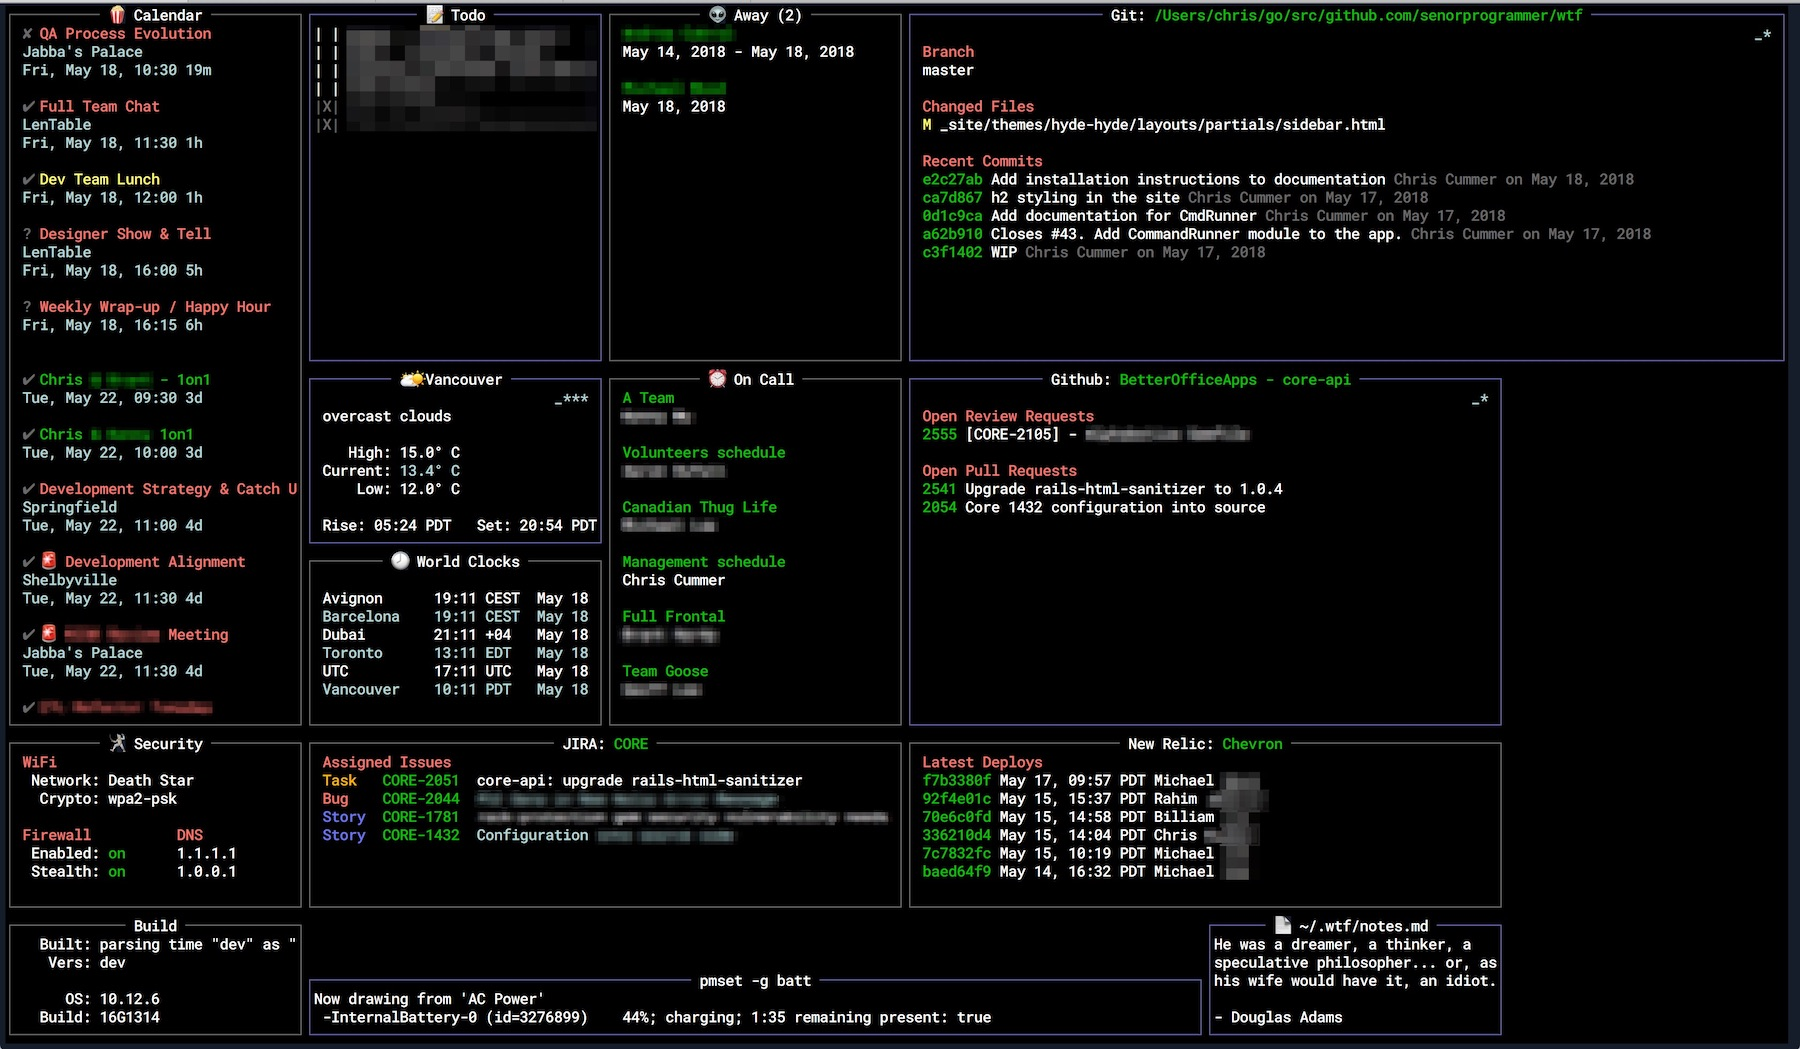
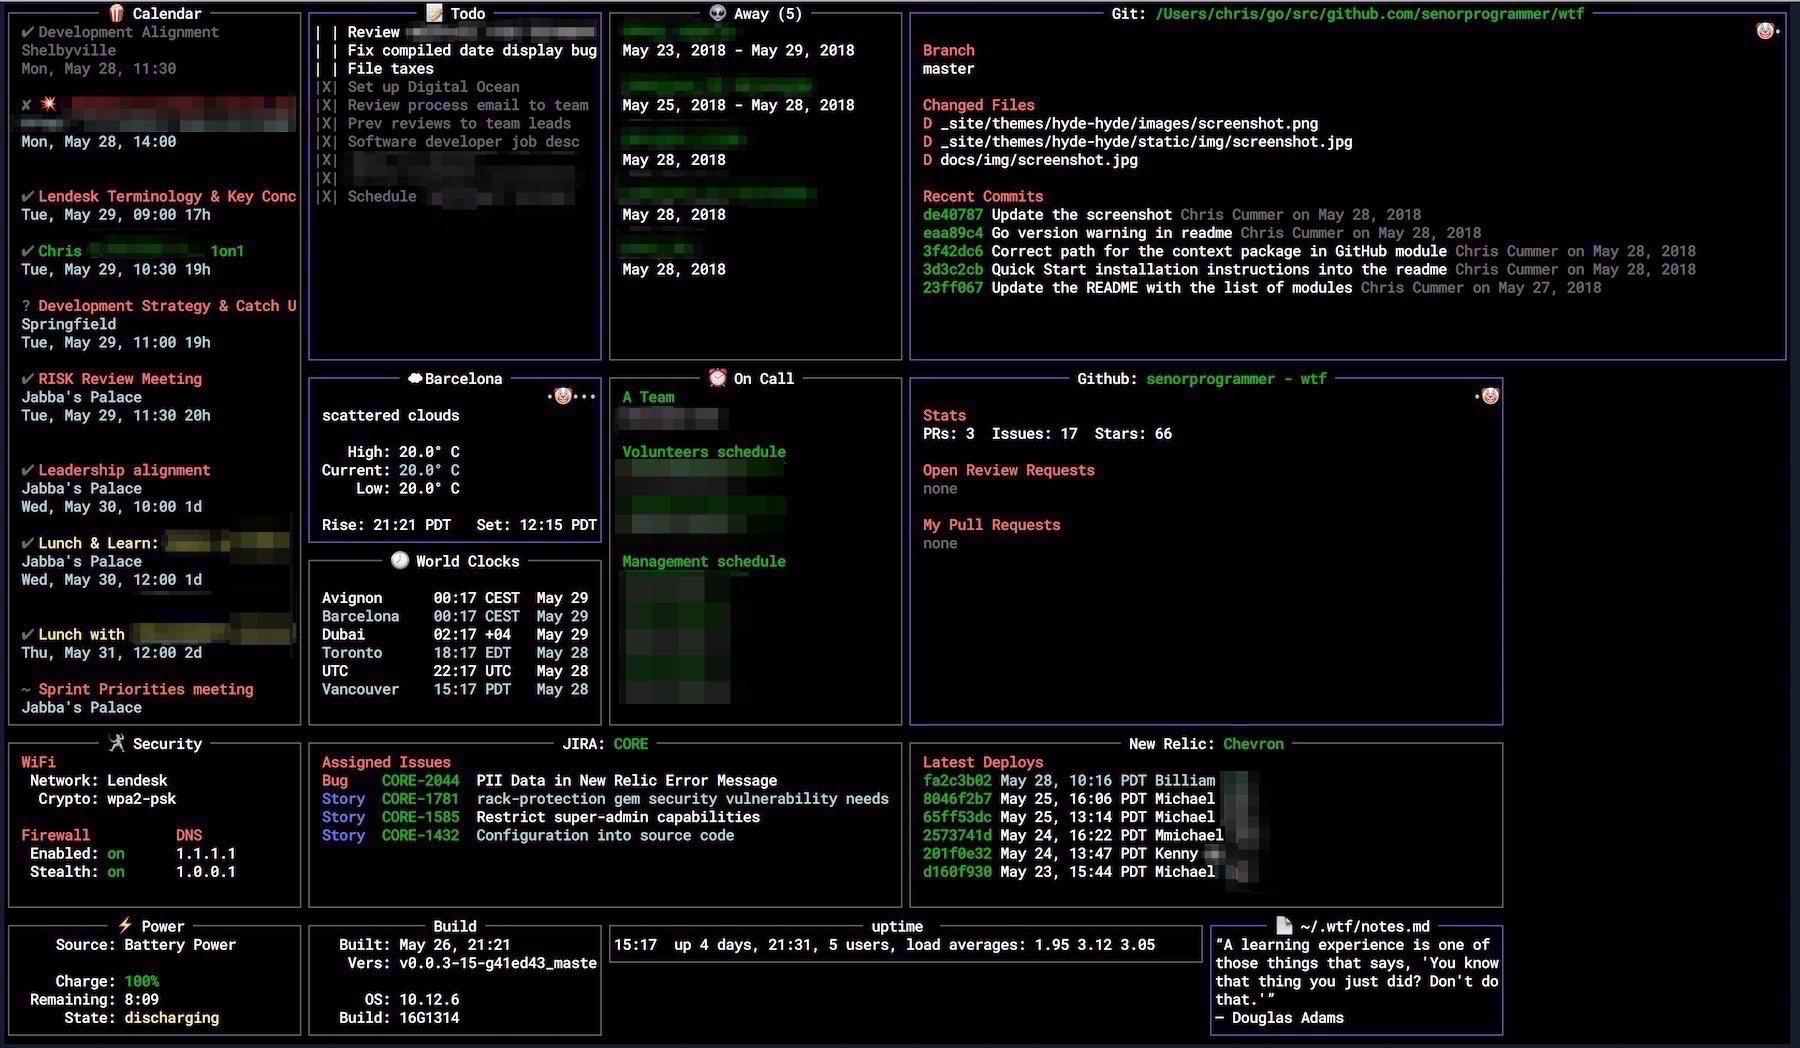
Update the screenshot

Changed region(s): [[0.0, 0.0, 1.0, 1.0], [0.8089, 0.6718, 0.84, 0.7328], [0.9644, 0.3359, 0.9956, 0.3664]]

diff --git a/_site/themes/hyde-hyde/layouts/index.html b/_site/themes/hyde-hyde/layouts/index.html
@@ -3,11 +3,7 @@
 {{- end }}
 
 {{ define "content" -}}
-  <!--<div style="float: right;">-->
-    <!--<a class="github-button" href="https://github.com/senorprogrammer/wtf" data-show-count="true" aria-label="Star senorprogrammer/wtf on GitHub">Star</a>-->
-  <!--</div>-->
-
-  <a href="/img/screenshot.jpg" target="_screenshot"><img src='/img/screenshot.jpg' width="720" height="420" /></a>
+  <a href="img/screenshot.jpg" target="_screenshot"><img src='/img/screenshot.jpg' width="720" height="420" /></a>
 
   <p>
   <span style="font-family: monospace; font-size: 1.6em;">WTF</span> is a personal information dashboard for your

diff --git a/docs/index.html b/docs/index.html
@@ -91,11 +91,7 @@
 </div>
 
         <div class="content container">
-            
-    
-  
-
-  <a href="/img/screenshot.jpg" target="_screenshot"><img src='/img/screenshot.jpg' width="720" height="420" /></a>
+            <a href="img/screenshot.jpg" target="_screenshot"><img src='/img/screenshot.jpg' width="720" height="420" /></a>
 
   <p>
   <span style="font-family: monospace; font-size: 1.6em;">WTF</span> is a personal information dashboard for your
